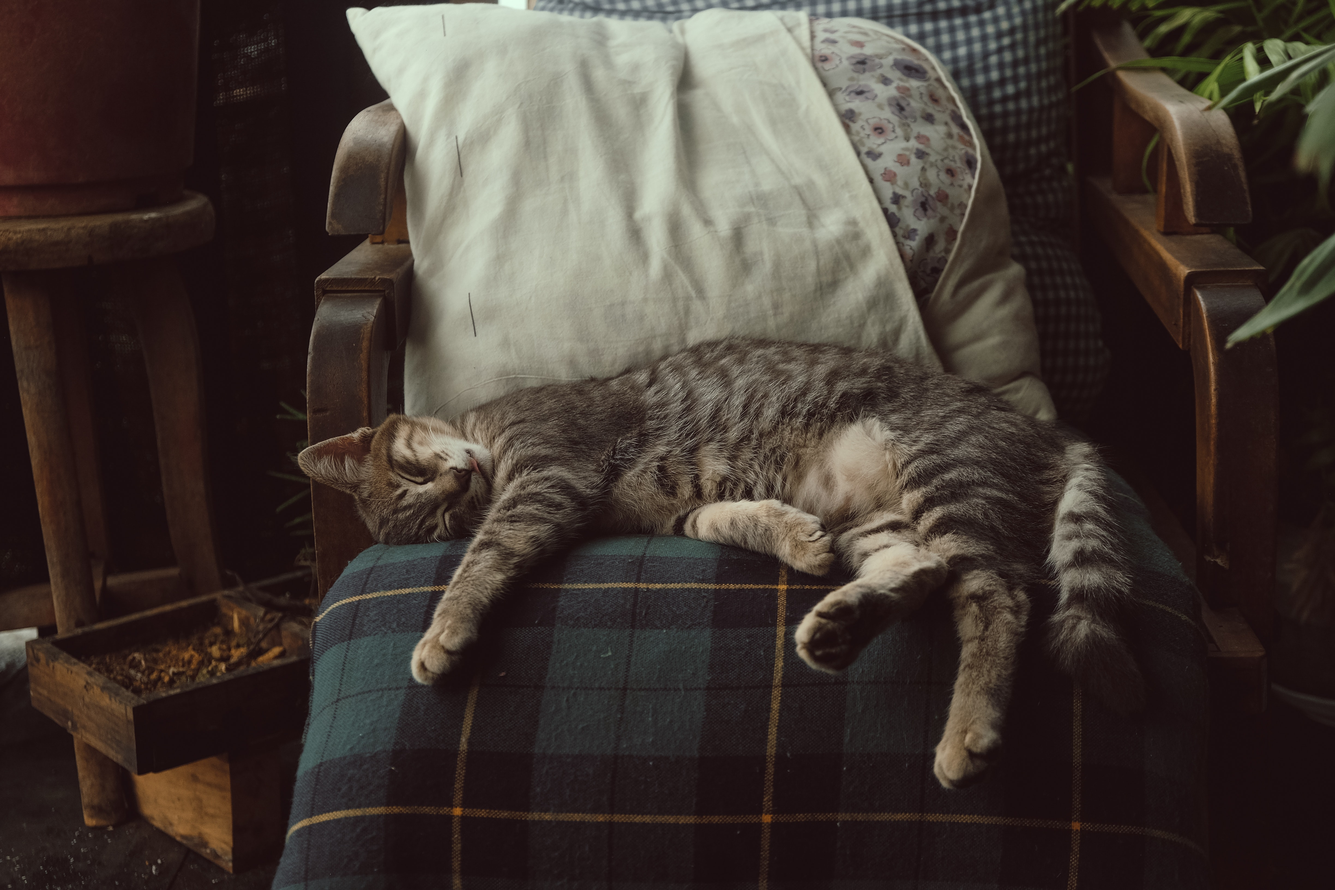
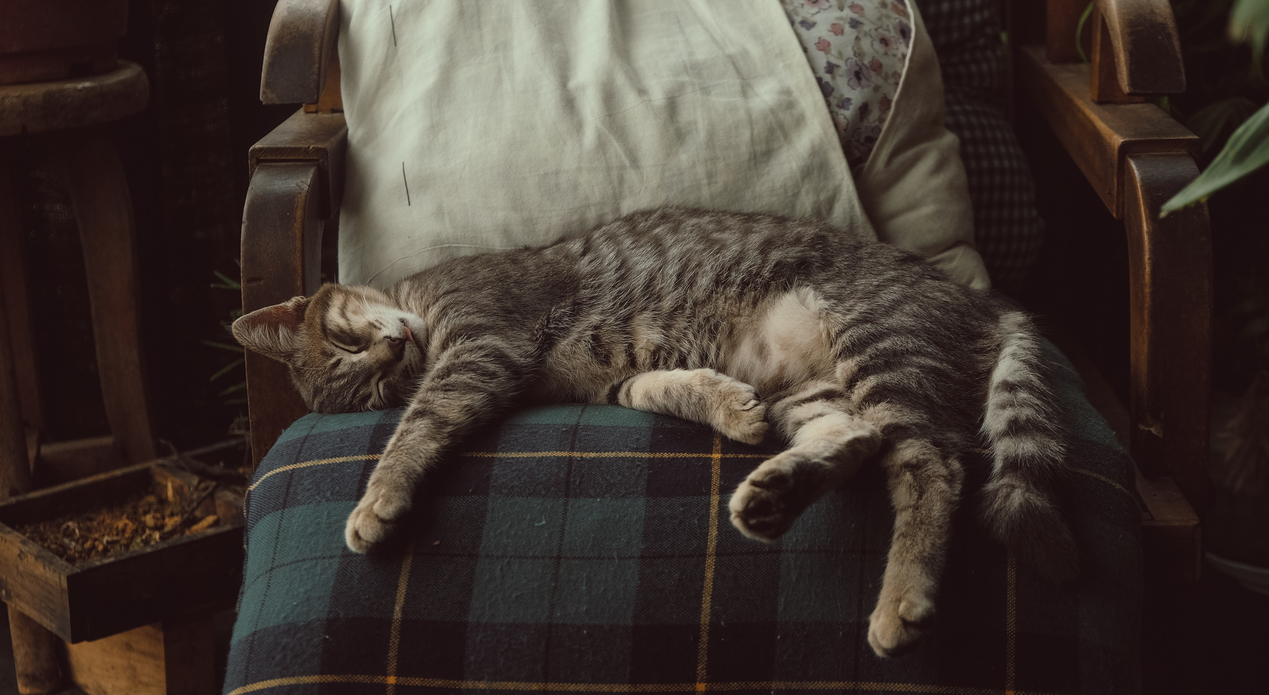
Working on flex and adding some information

diff --git a/index.html b/index.html
@@ -15,35 +15,35 @@
             <li><a href="www.wikipedia.org/wiki/cat">link three</a></li>
         </ul>
     </div>
-    <div class="headerinfo"> <h1>This website is awesome</h1>
-    <p class="subtext">Subtext placeholder</p>
-    <button>Sign up</button>
-    <img src="./images/header-cat.jpg" alt="Photo of Tabby Cat Sleeping On Chair"
+    <div class="headerinfo"><div class="part1"><h1>It's all about Cats!</h1>
+    <p class="subtext">Cats are cute little creatures who make our life better. This page will offer you nice pictures and some information about them.</p>
+    <button>Sign up</button></div>
+    <div class="part2"><img src="./images/header-cat.jpg" alt="Photo of Tabby Cat Sleeping On Chair"
     width="500"
-    height="400"></div>
+    height="300"></div></div>
 </header>
-<div class=maininfo><h2>Some random information.</h2>
-    <img src="./images/cat1.jpg" alt="Furry cat looking at camera while lying on blanket"
+<div class=maininfo><h2 class="question">What's not to love about cats?</h2>
+    <div class="pictures"><img src="./images/cat1.jpg" alt="Furry cat looking at camera while lying on blanket"
     width="300"
     height="300">
-    <div class="text">Subtext1</div>
+    <div class="text">Cats have mesmerizing eyes!</div>
 
   <img src="./images/cat2.jpg" alt="Selective Photo of Brown Pet Paw (Ginger cat paw)"
     width="300"
     height="300">
-  <div class="text">Subtext2</div>
+  <div class="text">Their paws are soft and cute!</div>
 
   <img src="./images/cat3.jpg" alt="Gray Kitten Sitting on the Floor"
     width="300"
     height="300">
-  <div class="text">Subtext3</div>
+  <div class="text">Kittens are so full of energy!</div>
 
   <img src="./images/cat4.jpg" alt="Calico Cat"
     width="300"
     height="300">
-  <div class="text">Subtext4</div>
+  <div class="text">Do you know what makes calico cats so special?</div></div>
 </div>
-<div class="quote"><div class="quotxt">Quote text</div>
+<div class="quote"><div class="quotxt">Adopt, don't shop!</div>
 <p>Who said it?</p></div>
 <div class="signup"><div>Emphatic title!!!</div>
 <div>Subtext</div>

diff --git a/style.css b/style.css
@@ -6,6 +6,7 @@ body {
 
 header, .footer {
     background-color: #1F2937;
+    display: flex;
 }
 
 h1, .logo, .footer {
@@ -19,6 +20,8 @@ a, .subtext {
 
 ul {
     list-style-type: none;
+    display: flex;
+    gap: 16px;
 }
 
 a {
@@ -37,6 +40,7 @@ h1 {
 
 .signup, button {
     background-color: #3882F6;
+    color: #F9FAF8;
 }
 
 h2 {
@@ -61,17 +65,34 @@ h2 {
     font-size: 18px;
 }
 
-.header {
-    display: flex;
+header {
+    flex-direction: column;
+    padding: 24px 200px;
 }
 
 .footer {
     font-size: 18px;
-    display: flex;
     align-items: center;
     justify-content: center;
 }
 
 .firstline {
+    display: flex;
+    justify-content: space-between;
+    align-items: baseline;
+}
+
+.headerinfo {
+    display: flex;
+    justify-content: space-between;
+    gap: 48px 180px;
+}
+
+.maininfo {
+    display: flex;
+    flex-direction: column;
+}
+
+.pictures {
     display: flex;
 }
